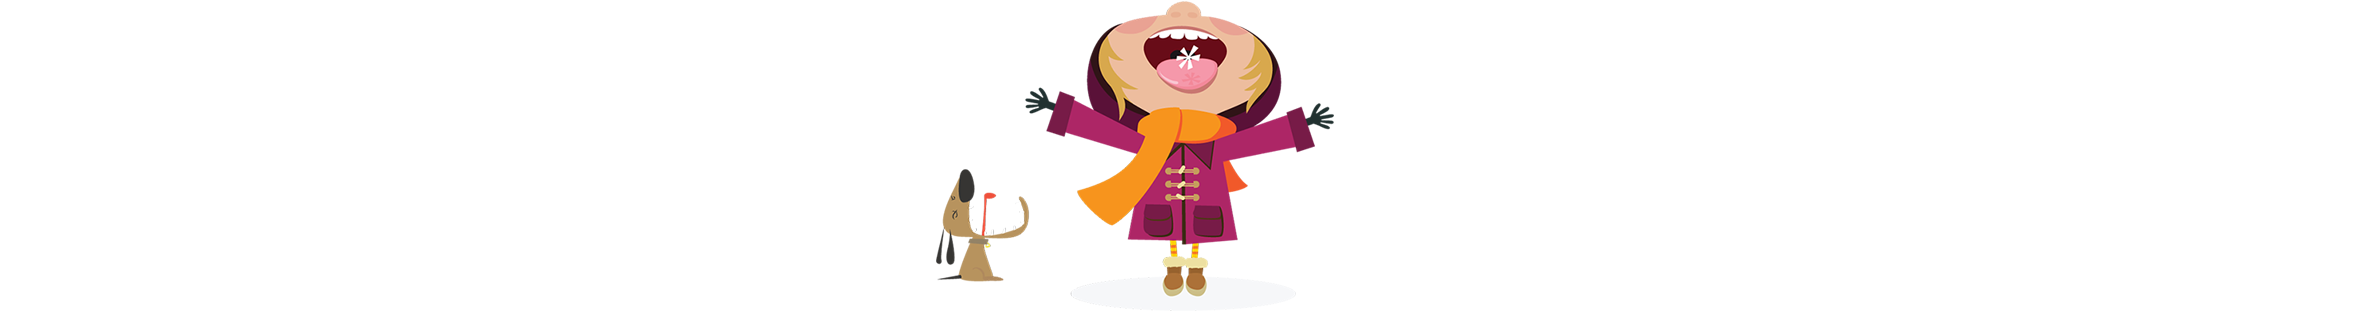
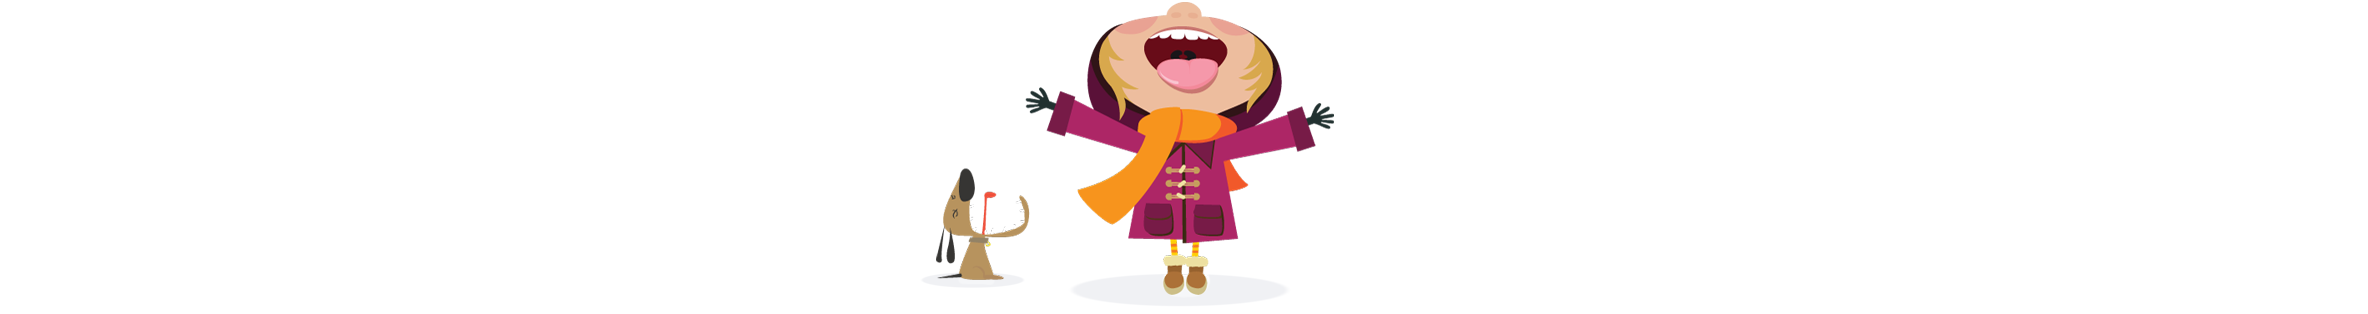
snowflake animation

diff --git a/new.html b/new.html
@@ -137,6 +137,12 @@ h2.badaboom, h2.badaboom a {
 	-webkit-transition-duration: 0.4s;
 	transition-duration: 0.4s;
 }
+.snowflake {
+	margin: -270px 0 0 8px;
+	text-align: center;
+	-webkit-animation: snowflake-fall 6s cubic-bezier(.89, .68, .95, .8) infinite both;
+	animation: snowflake-fall 6s cubic-bezier(.89, .68, .95, .8) infinite both;
+}
 .flakes-one {
 	min-height: 700px;
 	background: transparent url("flakes-one.png") center center repeat;
@@ -146,8 +152,8 @@ h2.badaboom, h2.badaboom a {
 .flakes-two {
 	min-height: 700px;
 	background: transparent url("flakes-two.png") center center repeat;
-	-webkit-animation: fall 18s linear infinite;
-	animation: fall 18s linear infinite;
+	-webkit-animation: fall 14s linear infinite;
+	animation: fall 14s linear infinite;
 }
 .flakes-three {
 	min-height: 700px;
@@ -173,6 +179,56 @@ background-position: 0 0;
 }
 
 @media (min-width: 1475px) {
+}
+@-webkit-keyframes snowflake-fall {
+0% {
+-webkit-transform: rotateY(80deg) translateY(-420px) skewY(-30deg);
+transform: rotateY(80deg) translateY(-420px) skewY(-30deg);
+opacity: 0;
+}
+1% {
+opacity: 1;
+}
+70% {
+-webkit-transform: rotateY(0deg) translateY(0) skewY(0deg);
+transform: rotateY(0deg) translateY(0) skewY(0deg);
+opacity: 1;
+}
+95% {
+-webkit-transform: rotate(20deg) translateY(0) skewY(0deg);
+transform: rotate(20deg) translateY(0) skewY(0deg);
+opacity: 1;
+}
+100% {
+-webkit-transform: rotateX(80deg) skewX(30deg) scale(.1);
+transform: rotateX(80deg) skewX(30deg) scale(.1);
+opacity: 0;
+}
+}
+@keyframes snowflake-fall {
+0% {
+-webkit-transform: rotateY(80deg) translateY(-420px) skewY(-30deg);
+transform: rotateY(80deg) translateY(-420px) skewY(-30deg);
+opacity: 0;
+}
+1% {
+opacity: 1;
+}
+70% {
+-webkit-transform: rotateY(0deg) translateY(0) skewY(0deg);
+transform: rotateY(0deg) translateY(0) skewY(0deg);
+opacity: 1;
+}
+95% {
+-webkit-transform: rotate(20deg) translateY(0) skewY(0deg);
+transform: rotate(20deg) translateY(0) skewY(0deg);
+opacity: 1;
+}
+100% {
+-webkit-transform: rotateX(80deg) skewX(30deg) scale(.1);
+transform: rotateX(80deg) skewX(30deg) scale(.1);
+opacity: 0;
+}
 }
 
 @media (max-width: 992px) {
@@ -384,6 +440,7 @@ height="0" width="0" style="display:none;visibility:hidden"></iframe>
         </div>
       </div>
     </div>
+    <div class="snowflake"><img src="snowflake.png" alt="Snowflake"></div>
   </div>
   <div class="row">
     <div class="container">
